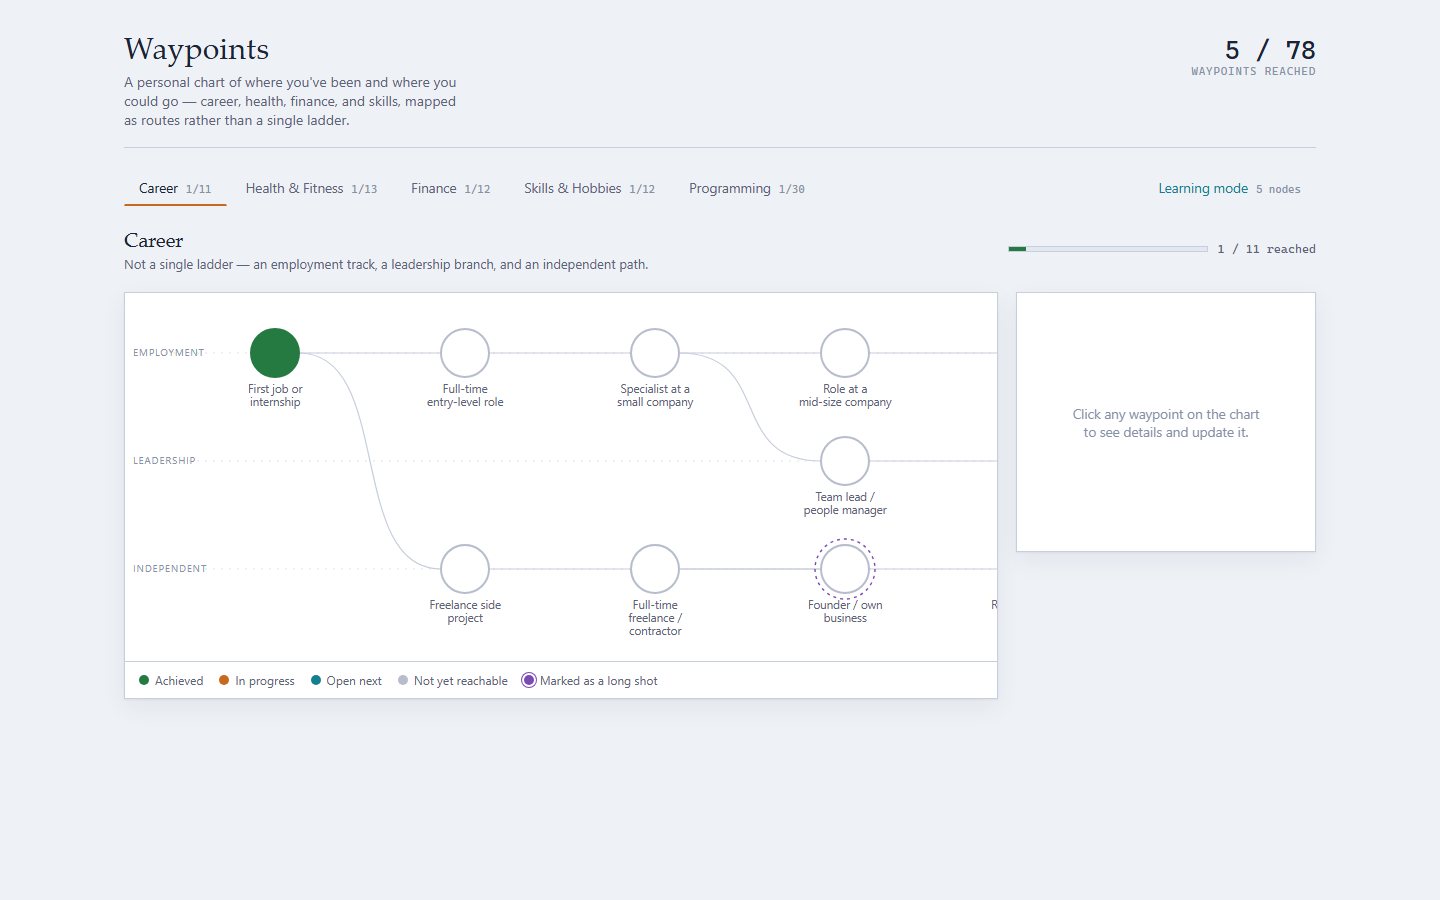
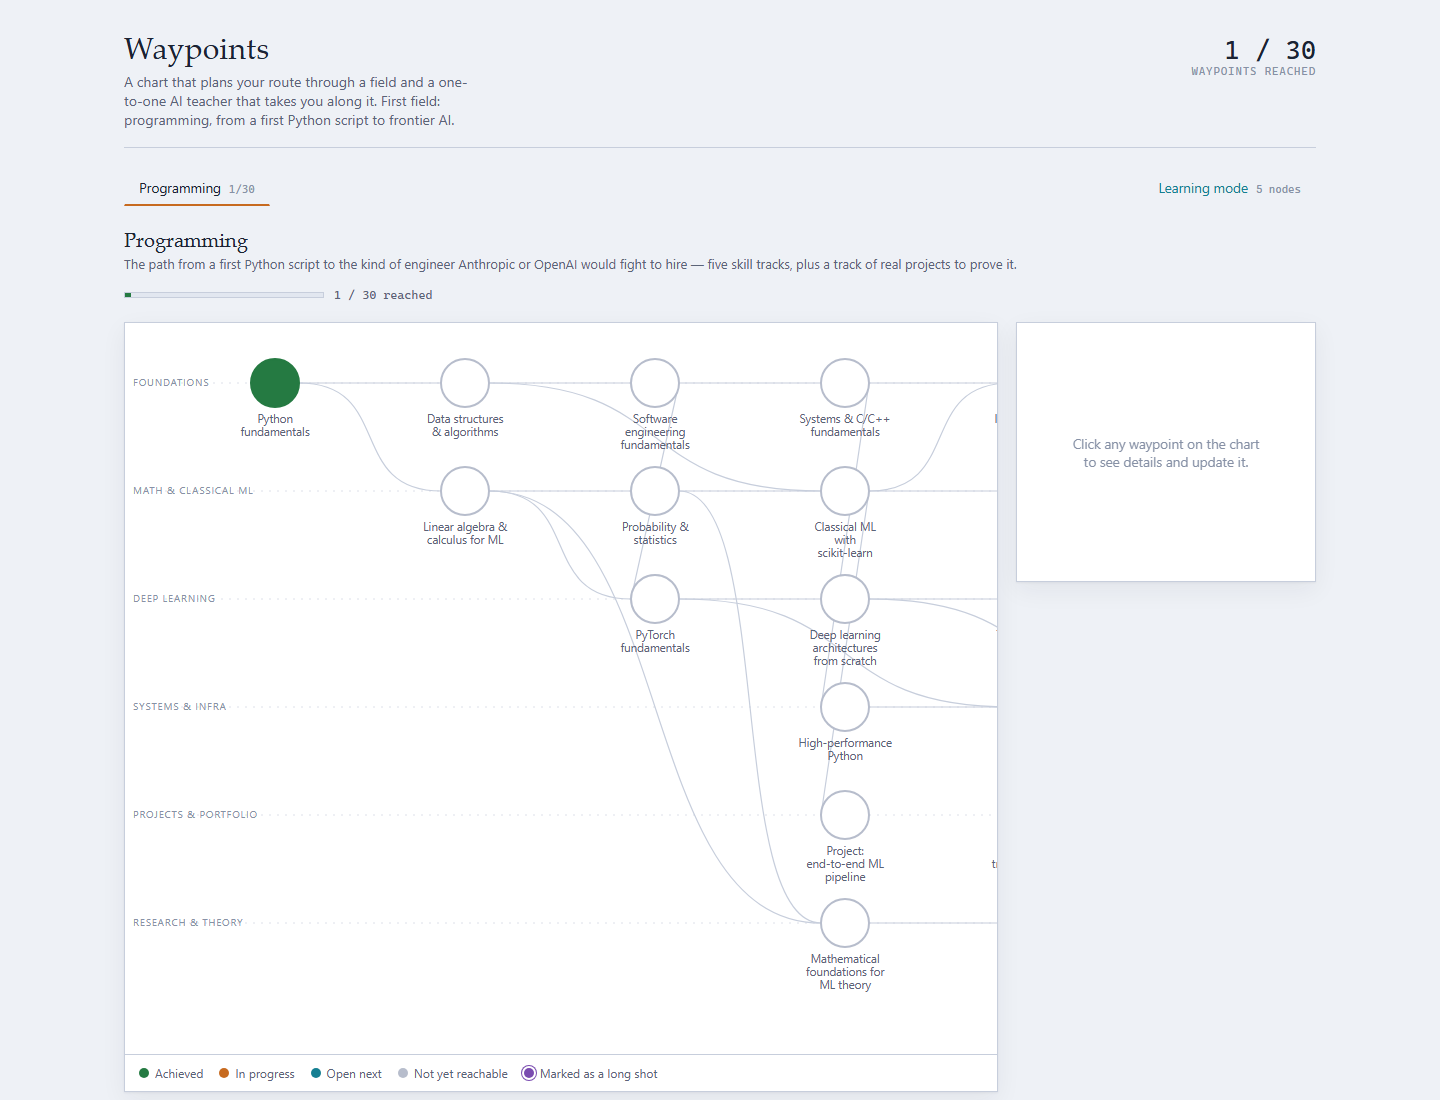
Focus Waypoints on Programming; reposition as an AI tutoring and planning app
Remove the four generic template domains (Career, Health & Fitness, Finance,
Skills & Hobbies) so Programming is the only field. Update the page header,
README (with a roadmap and a new screenshot) and CLAUDE.md to match.

diff --git a/web/index.html b/web/index.html
@@ -1217,7 +1217,7 @@
   <header class="top">
     <div class="brand">
       <h1>Waypoints</h1>
-      <p>A personal chart of where you've been and where you could go — career, health, finance, and skills, mapped as routes rather than a single ladder.</p>
+      <p>A chart that plans your route through a field and a one-to-one AI teacher that takes you along it. First field: programming, from a first Python script to frontier AI.</p>
     </div>
     <div class="overall-stat">
       <div class="num" id="overallNum">0 / 0</div>
@@ -4204,82 +4204,6 @@
   // ---------- data ----------
   const DOMAINS = [
     {
-      id: "career", label: "Career",
-      sub: "Not a single ladder — an employment track, a leadership branch, and an independent path.",
-      lanes: ["Employment", "Leadership", "Independent"],
-      nodes: [
-        { id: "c1", tier: 0, lane: 0, title: "First job or internship", desc: "Any paid or structured work experience — part-time, internship, or your first real job. The starting point everything else builds on.", est: "1–6 months to land", prereqs: [] },
-        { id: "c2", tier: 1, lane: 0, title: "Full-time entry-level role", desc: "A full-time position where you're building core professional skills and reputation.", est: "6–18 months in role", prereqs: ["c1"] },
-        { id: "c3", tier: 2, lane: 0, title: "Specialist at a small company", desc: "Deeper ownership at a small or early-stage company, where your work has outsized visibility.", est: "1–2 years", prereqs: ["c2"] },
-        { id: "c4", tier: 3, lane: 0, title: "Role at a mid-size company", desc: "More structure, more process, and a track record that opens doors elsewhere.", est: "1–2 years", prereqs: ["c3"] },
-        { id: "c5", tier: 4, lane: 0, title: "Role at a large, well-known company", desc: "A competitive hiring bar and brand-name credibility. Worth mapping even if it's a stretch.", est: "2–4 years, competitive", prereqs: ["c4"], stretch: true },
-        { id: "c6", tier: 3, lane: 1, title: "Team lead / people manager", desc: "Responsible for other people's output, not just your own.", est: "1–2 years", prereqs: ["c3"] },
-        { id: "c7", tier: 4, lane: 1, title: "Director / senior leadership", desc: "Sets strategy for a function, not just a team.", est: "3–6 years", prereqs: ["c6"], stretch: true },
-        { id: "c8", tier: 1, lane: 2, title: "Freelance side project", desc: "Paid work outside your main job, testing whether you can sell your own time.", est: "1–3 months to land first client", prereqs: ["c1"] },
-        { id: "c9", tier: 2, lane: 2, title: "Full-time freelance / contractor", desc: "Independence as your main income, not just a side project.", est: "6–12 months to transition", prereqs: ["c8"] },
-        { id: "c10", tier: 3, lane: 2, title: "Founder / own business", desc: "Building something you own end to end, with all the upside and risk that implies.", est: "1–3 years to establish", prereqs: ["c9"], stretch: true },
-        { id: "c11", tier: 4, lane: 2, title: "Recognized voice in your field", desc: "Writing, speaking, or teaching that makes you known beyond your immediate employer.", est: "2–5 years of consistent output", prereqs: ["c9"], stretch: true }
-      ]
-    },
-    {
-      id: "health", label: "Health & Fitness",
-      sub: "Four routes that reinforce each other: consistency, strength, endurance, and nutrition.",
-      lanes: ["Consistency", "Strength", "Endurance", "Nutrition"],
-      nodes: [
-        { id: "h1", tier: 0, lane: 0, title: "Regular movement habit", desc: "Moving your body on purpose a few times a week, however lightly.", est: "2–4 weeks to establish", prereqs: [] },
-        { id: "h2", tier: 1, lane: 0, title: "Structured workout routine", desc: "A repeatable routine, three or more sessions a week — not just occasional activity.", est: "4–8 weeks", prereqs: ["h1"] },
-        { id: "h3", tier: 2, lane: 0, title: "Six-month consistency streak", desc: "Kept the routine going through busy weeks, travel, and low-motivation stretches.", est: "6 months", prereqs: ["h2"] },
-        { id: "h4", tier: 3, lane: 0, title: "Multi-year sustainable habit", desc: "Fitness that's just part of how you live, not a project you're 'on.'", est: "2–3 years", prereqs: ["h3"] },
-        { id: "h5", tier: 1, lane: 1, title: "Basic strength benchmarks", desc: "Solid form on the fundamental lifts or their bodyweight equivalents.", est: "2–3 months", prereqs: ["h1"] },
-        { id: "h6", tier: 2, lane: 1, title: "Intermediate strength", desc: "Meaningfully stronger than when you started, with numbers to show it.", est: "6–12 months", prereqs: ["h5"] },
-        { id: "h7", tier: 3, lane: 1, title: "Advanced / competitive lifts", desc: "Strength standards most casual lifters never reach.", est: "2–4 years", prereqs: ["h6"], stretch: true },
-        { id: "h8", tier: 1, lane: 2, title: "Can run a 5k", desc: "Comfortable covering 5 kilometers without stopping.", est: "4–8 weeks", prereqs: ["h1"] },
-        { id: "h9", tier: 2, lane: 2, title: "Can run a 10k / half marathon", desc: "A real endurance base, built over months.", est: "3–6 months", prereqs: ["h8"] },
-        { id: "h10", tier: 3, lane: 2, title: "Marathon or ultra distance", desc: "A major endurance goal most people never attempt.", est: "6–12 months", prereqs: ["h9"], stretch: true },
-        { id: "h11", tier: 1, lane: 3, title: "Basic healthy eating habits", desc: "Food choices that generally support your goals, most of the time.", est: "2–4 weeks", prereqs: ["h1"] },
-        { id: "h12", tier: 2, lane: 3, title: "Consistent meal planning", desc: "Nutrition that's planned rather than improvised day to day.", est: "1–2 months", prereqs: ["h11"] },
-        { id: "h13", tier: 3, lane: 3, title: "Dialed-in nutrition", desc: "Eating that reliably gets you the body composition or performance you want.", est: "3–6 months", prereqs: ["h12"] }
-      ]
-    },
-    {
-      id: "finance", label: "Finance",
-      sub: "Stability first, then income, investing, and larger assets branch off it.",
-      lanes: ["Stability", "Income", "Investing", "Assets"],
-      nodes: [
-        { id: "f1", tier: 0, lane: 0, title: "Track spending / basic budget", desc: "You know roughly where your money goes each month.", est: "1–2 weeks to set up", prereqs: [] },
-        { id: "f2", tier: 1, lane: 0, title: "One month emergency fund", desc: "Enough saved to cover a bad month without borrowing.", est: "1–3 months", prereqs: ["f1"] },
-        { id: "f3", tier: 2, lane: 0, title: "Three to six month emergency fund", desc: "A real cushion against job loss or a major surprise expense.", est: "6–12 months", prereqs: ["f2"] },
-        { id: "f4", tier: 3, lane: 0, title: "Debt-free, excluding mortgage", desc: "No consumer or student debt left hanging over your income.", est: "1–3 years, depends on debt load", prereqs: ["f3"] },
-        { id: "f5", tier: 1, lane: 1, title: "Stable, steady income", desc: "Income you can reliably count on month to month.", est: "3–6 months", prereqs: ["f1"] },
-        { id: "f6", tier: 2, lane: 1, title: "Income growing faster than inflation", desc: "Raises, promotions, or side income that actually move the needle.", est: "1–2 years", prereqs: ["f5"] },
-        { id: "f7", tier: 3, lane: 1, title: "Multiple income streams", desc: "Not dependent on a single paycheck.", est: "1–2 years", prereqs: ["f6"] },
-        { id: "f8", tier: 1, lane: 2, title: "Started investing", desc: "Money in a retirement or brokerage account, even if it's small.", est: "1–2 weeks to open & fund", prereqs: ["f1"] },
-        { id: "f9", tier: 2, lane: 2, title: "Diversified portfolio", desc: "Investments spread across assets, not sitting in one bet.", est: "3–6 months", prereqs: ["f8"] },
-        { id: "f10", tier: 3, lane: 2, title: "Investment income that matters", desc: "Returns big enough to notice next to your salary.", est: "5–10 years", prereqs: ["f9"], stretch: true },
-        { id: "f11", tier: 4, lane: 2, title: "Financial independence", desc: "Assets could cover your living costs indefinitely.", est: "10–20+ years", prereqs: ["f10"], stretch: true },
-        { id: "f12", tier: 3, lane: 3, title: "Own a home or major asset", desc: "A significant asset in your name, not just savings.", est: "2–5 years to save & qualify", prereqs: ["f4"], stretch: true }
-      ]
-    },
-    {
-      id: "skills", label: "Skills & Hobbies",
-      sub: "Depth in one craft, creative output, teaching others, and breadth into new ones.",
-      lanes: ["Core skill", "Creative output", "Teaching", "Breadth"],
-      nodes: [
-        { id: "s1", tier: 0, lane: 0, title: "Picked a skill to focus on", desc: "Chosen something specific to get better at, rather than dabbling.", est: "a few days", prereqs: [] },
-        { id: "s2", tier: 1, lane: 0, title: "Consistent practice habit", desc: "Regular deliberate practice, not just occasional bursts of interest.", est: "1–2 months", prereqs: ["s1"] },
-        { id: "s3", tier: 2, lane: 0, title: "Genuinely competent", desc: "Good enough that it's a real, usable skill, not just a hobby you mention.", est: "6–12 months", prereqs: ["s2"] },
-        { id: "s4", tier: 3, lane: 0, title: "Advanced / recognized skill", desc: "Skilled enough that others notice or seek you out for it.", est: "2–4 years", prereqs: ["s3"], stretch: true },
-        { id: "s5", tier: 1, lane: 1, title: "First finished project", desc: "Something you actually completed and can point to, however small.", est: "2–4 weeks", prereqs: ["s1"] },
-        { id: "s6", tier: 2, lane: 1, title: "Regularly shipping projects", desc: "Finishing things often enough that it's a pattern, not a one-off.", est: "3–6 months", prereqs: ["s5"] },
-        { id: "s7", tier: 3, lane: 1, title: "Public body of work", desc: "A portfolio substantial enough to represent you on its own.", est: "1–2 years", prereqs: ["s6"], stretch: true },
-        { id: "s8", tier: 1, lane: 2, title: "Sharing informally", desc: "Helping friends or posting online — low-stakes teaching.", est: "a few weeks", prereqs: ["s2"] },
-        { id: "s9", tier: 2, lane: 2, title: "Mentoring others", desc: "Someone specific relies on you to help them improve.", est: "3–6 months", prereqs: ["s8"] },
-        { id: "s10", tier: 3, lane: 2, title: "Known teacher or creator", desc: "A reputation in a community for this, beyond people you know personally.", est: "1–3 years", prereqs: ["s9"], stretch: true },
-        { id: "s11", tier: 1, lane: 3, title: "Exploring an adjacent skill", desc: "Branching sideways into something related, for breadth.", est: "1–2 months", prereqs: ["s1"] },
-        { id: "s12", tier: 2, lane: 3, title: "Second hobby domain", desc: "A genuinely separate interest, not just an extension of the first.", est: "3–6 months", prereqs: ["s11"] }
-      ]
-    },
-    {
       id: "programming", label: "Programming",
       sub: "The path from a first Python script to the kind of engineer Anthropic or OpenAI would fight to hire — five skill tracks, plus a track of real projects to prove it.",
       lanes: ["Foundations", "Math & Classical ML", "Deep Learning", "Systems & Infra", "Projects & Portfolio", "Research & Theory"],
@@ -4550,8 +4474,8 @@
 
   // ---------- persistence (db capability) ----------
   // Remembers checklist boxes (collection "checklist", one doc per node) and
-  // chart node status + long-shot flags (collection "chart", doc "state",
-  // one doc for every domain) across reloads.
+  // chart node status + long-shot flags (collection "chart", doc "state")
+  // across reloads.
   let db = null;
 
   function saveChecklist(nodeId) {

diff --git a/CLAUDE.md b/CLAUDE.md
@@ -1,8 +1,21 @@
-# Waypoints — personal life-progress tracker
+# Waypoints — AI tutoring and planning app
 
-A personal app to document life progress "game style": skill-tree-like charts
-per life domain, showing what's achieved, what's realistically next, and what's
-a long shot — not a strict linear progression, more of a reference map.
+A chart that plans a route through a field (what's achieved, what's
+realistically next, what's a long shot — a reference map, not a strict linear
+progression) plus a one-to-one AI teacher (Learning mode) that takes the
+learner along it.
+
+**Direction (2026-10-02):** the app began as a personal life-progress tracker
+with five domains. At the user's request the Career, Health & Fitness,
+Finance and Skills & Hobbies tabs were removed; **Programming is the only
+field now**, and the longer-term aim is a full-stack tutoring and planning app
+for any field. Nothing field-general has been built yet (teacher prompts and
+the practice runner are still programming/Python-specific) — don't build
+"create a field" or rename prompts to be field-neutral unless asked.
+
+The code is public at https://github.com/ShxZai/waypoints (MIT). `data/`,
+`notes/`, `.env`, `waypoints.html`, the career files and the third-party
+`learn-main/` / `Manware-…` folders are git-ignored; keep it that way.
 
 ## Status
 
@@ -82,14 +95,15 @@ the artifact sandbox allows.
   independent of status. This is the "index of what's less likely achievable
   for me" the user asked for — shown as a dashed ring around the node. It's a
   personal judgment call, not derived from the data.
-- **Five domains** in the current draft: Career, Health & Fitness, Finance,
-  Skills & Hobbies (48 nodes total, ~12 per domain, hand-written generic
-  template content — not based on the user's actual real-life status), and
-  Programming (30 nodes across 6 lanes — Foundations, Math & Classical ML,
-  Deep Learning, Systems & Infra, Projects & Portfolio, Research & Theory —
-  a concrete Python-to-frontier-AI-lab progression the user asked for by
-  name, so unlike the other four it's a real intended path rather than
-  generic placeholder content).
+- **One domain: Programming** (30 nodes across 6 lanes — Foundations, Math &
+  Classical ML, Deep Learning, Systems & Infra, Projects & Portfolio,
+  Research & Theory — a concrete Python-to-frontier-AI-lab progression the
+  user asked for by name). `DOMAINS` is still an array and the tab bar,
+  counters and persistence still loop over it, so a second field is a data
+  addition. The four generic template domains (Career, Health & Fitness,
+  Finance, Skills & Hobbies; ids c*/h*/f*/s*) were removed on 2026-10-02;
+  their old entries in a saved `chart/state` doc are ignored on load. Older
+  notes below that say "the other four domains" refer to them.
 - **Research & Theory lane (pg26-pg30)**: added after a conversation about
   whether math-specialized ML/AI research roles exist (they do — theory/
   interpretability research at labs like Anthropic) and whether that
@@ -111,9 +125,6 @@ the artifact sandbox allows.
   information theory book, and similar primary/high-quality sources — a
   couple of items intentionally have no video or no practice link where no
   good one existed, same convention as the original data.
-- **No persistence yet**: state is in-memory JS only and resets on reload.
-  This was intentional for a first draft — validate the interaction model
-  before wiring up real data storage.
 - **Per-node skill checklist**: a node can optionally carry a `checklist:
   [string, ...]` array — concrete, checkable sub-skills for a broad node
   (e.g. "Data structures & algorithms"). When present, selecting the node
@@ -274,22 +285,17 @@ the artifact sandbox allows.
 
 ## Next steps (not started)
 
-1. Let the user edit the node data to reflect their actual life/goals instead
-   of the generic template.
+1. Towards "any field": Learning mode for the remaining Programming nodes
+   (needs a runner/packages decision, see the Learning mode notes), then
+   charts and non-code practice for other fields. Only when asked.
 2. Optional later: put the app online privately (needs `TEACHER=api`, a host,
    and a login). Only if asked.
 3. Possible future additions the user has *not* asked for yet (don't build
-   unprompted): journaling/notes per node, dates achieved, custom domains
-   beyond the initial four, editing the graph structure itself (add/remove
-   nodes) from the UI.
+   unprompted): journaling/notes per node, dates achieved, editing the graph
+   structure itself (add/remove nodes) from the UI.
 
 ## Working notes for future sessions
 
-- Scope restriction: unless the user explicitly says otherwise in a given
-  request, only make changes to the Programming domain/tab (pg1-pg30 and
-  anything specific to rendering/behavior for it). Don't touch Career,
-  Health & Fitness, Finance, or Skills & Hobbies data or shared code paths
-  as a side effect of a Programming-focused request.
 - Vanilla HTML/CSS/JS in one file by design (fast iteration, no build step).
   Keep it that way unless the user explicitly asks to turn this into a real
   app project.

diff --git a/README.md b/README.md
@@ -1,34 +1,35 @@
 # Waypoints
 
-A personal life-progress tracker drawn as a navigation chart, with a one-to-one
-AI teacher built in.
+A full-stack AI tutoring and planning app. A chart plans your route through a
+field; a one-to-one AI teacher takes you along it.
 
-Each life domain (Career, Health & Fitness, Finance, Skills & Hobbies,
-Programming) is a small graph of waypoints: what you've reached, what's open
-next, and what's a long shot. It is a reference map rather than a ladder, so
-any waypoint can be marked out of order.
+The first field is **Programming**: a path from a first Python script to
+frontier AI work, drawn as a navigation chart of waypoints. The chart shows
+what you've reached, what's open next, and what's a long shot. It is a
+reference map rather than a ladder, so any waypoint can be marked out of order.
 
-The Programming domain goes further. Its **Learning mode** finds the edge of
-what you know, draws a dependency map from there to your goal, and teaches it
-step by step, with quizzes, exercises run in real Python, and a session log
-saved as Markdown.
+**Learning mode** then teaches a waypoint. It finds the edge of what you know,
+draws a dependency map from there to your goal, and teaches it step by step,
+with quizzes, exercises run in real Python, and a session log saved as
+Markdown.
 
-![The Career chart in the light theme](docs/chart.png)
+![The Programming chart in the light theme](docs/chart.png)
 
 ## Features
 
-**The chart**
+**The chart (planning)**
 
-- Five domains, 78 waypoints, each domain split into parallel lanes with
-  prerequisite edges between waypoints.
+- 30 waypoints in six parallel lanes (Foundations, Math & Classical ML, Deep
+  Learning, Systems & Infra, Projects & Portfolio, Research & Theory), with
+  prerequisite edges between them.
 - Four states per waypoint (not yet reachable, open next, in progress,
   achieved) plus a separate, personal "long shot" flag.
-- Programming waypoints carry a skill checklist split into Foundational,
-  Advanced, and optional Recall & practice items. Each item has an explainer,
-  a video, a course or docs link, practice problems and a mastery project.
+- Each waypoint carries a skill checklist split into Foundational, Advanced,
+  and optional Recall & practice items. Each item has an explainer, a video,
+  a course or docs link, practice problems and a mastery project.
 - Light "trail map" and dark "star chart" themes.
 
-**Learning mode** (five Programming waypoints so far)
+**Learning mode (tutoring)** — five waypoints so far
 
 1. **Probe** — hand-written seed questions, then adaptive rounds generated by
    Claude until each strand of the topic is bracketed between something you
@@ -137,13 +138,21 @@ logs in `notes/`. Both are git-ignored, along with `.env`. Lesson content is
 sent to Claude through whichever teacher route you chose. The page loads
 marked, DOMPurify, CodeMirror and Mermaid from cdnjs.
 
+## Roadmap
+
+Programming is the only field for now. The aim is a tutoring and planning app
+for any field, which needs:
+
+- Learning mode for the remaining Programming waypoints (C/C++, PyTorch and
+  others need a runner beyond standard-library Python).
+- Charts for other fields, and practice that isn't code.
+
 ## Acknowledgements
 
 Learning mode's structure and teaching philosophy (probe, plan, teach;
 unconditional truths first; "how could I have discovered this?") are inspired
 by Amos Blomqvist's [learn](https://github.com/amosblomqvist/learn). The
-implementation here is separate. The chart content outside Programming is a
-generic template.
+implementation here is separate.
 
 Built with [Claude Code](https://claude.com/claude-code); `CLAUDE.md` is the
 running design log.
